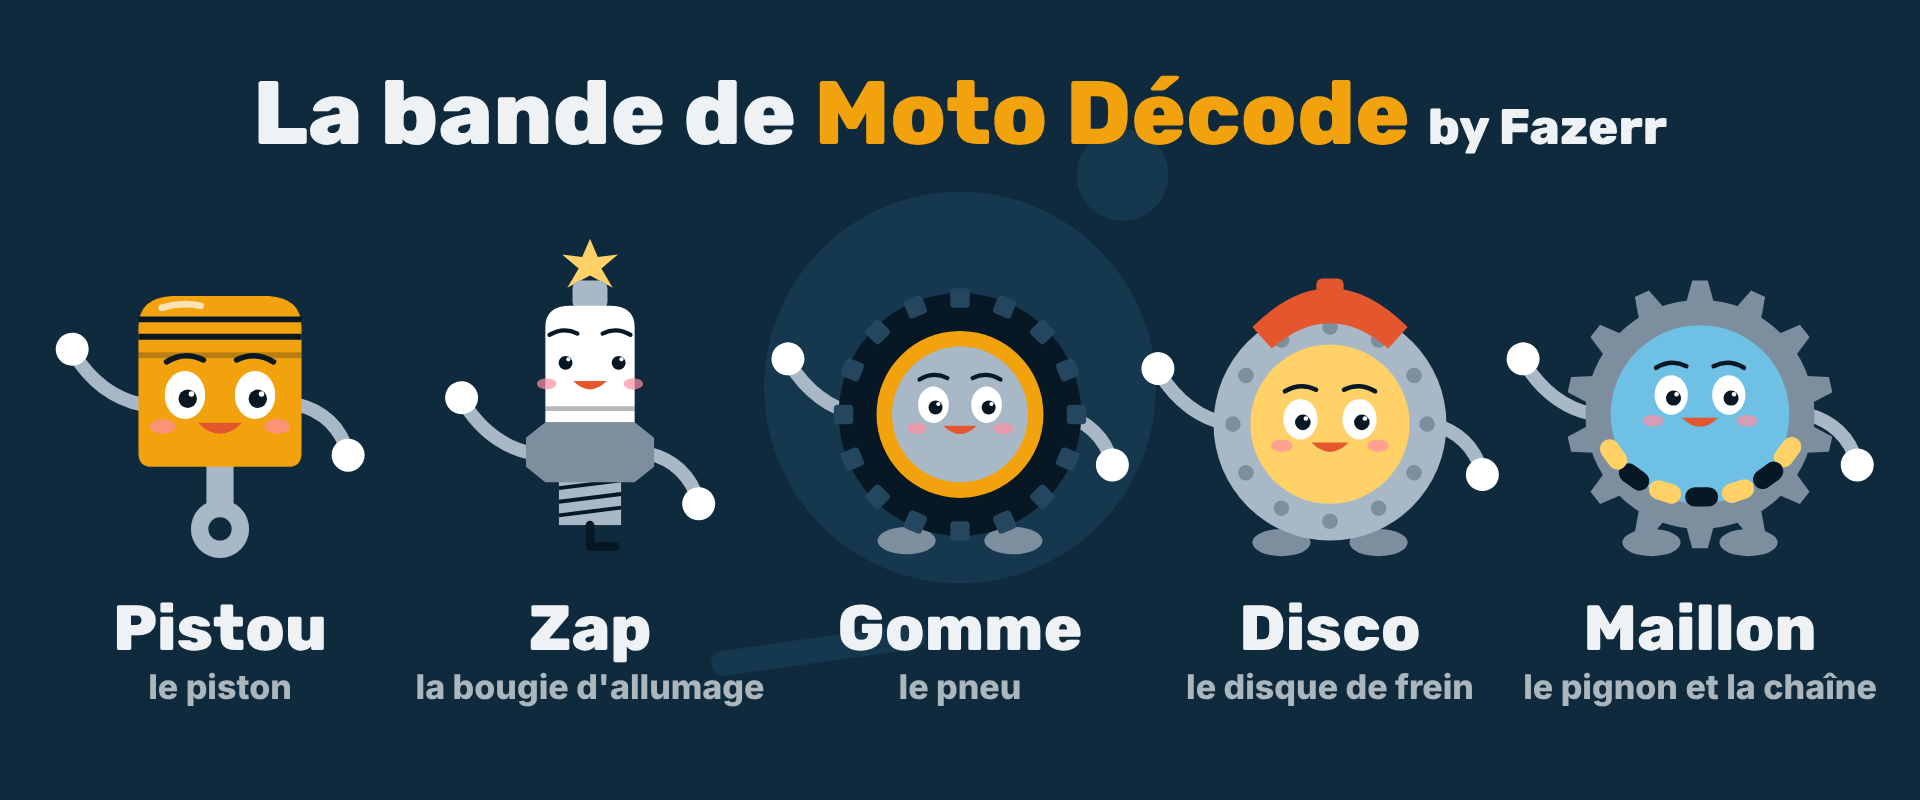
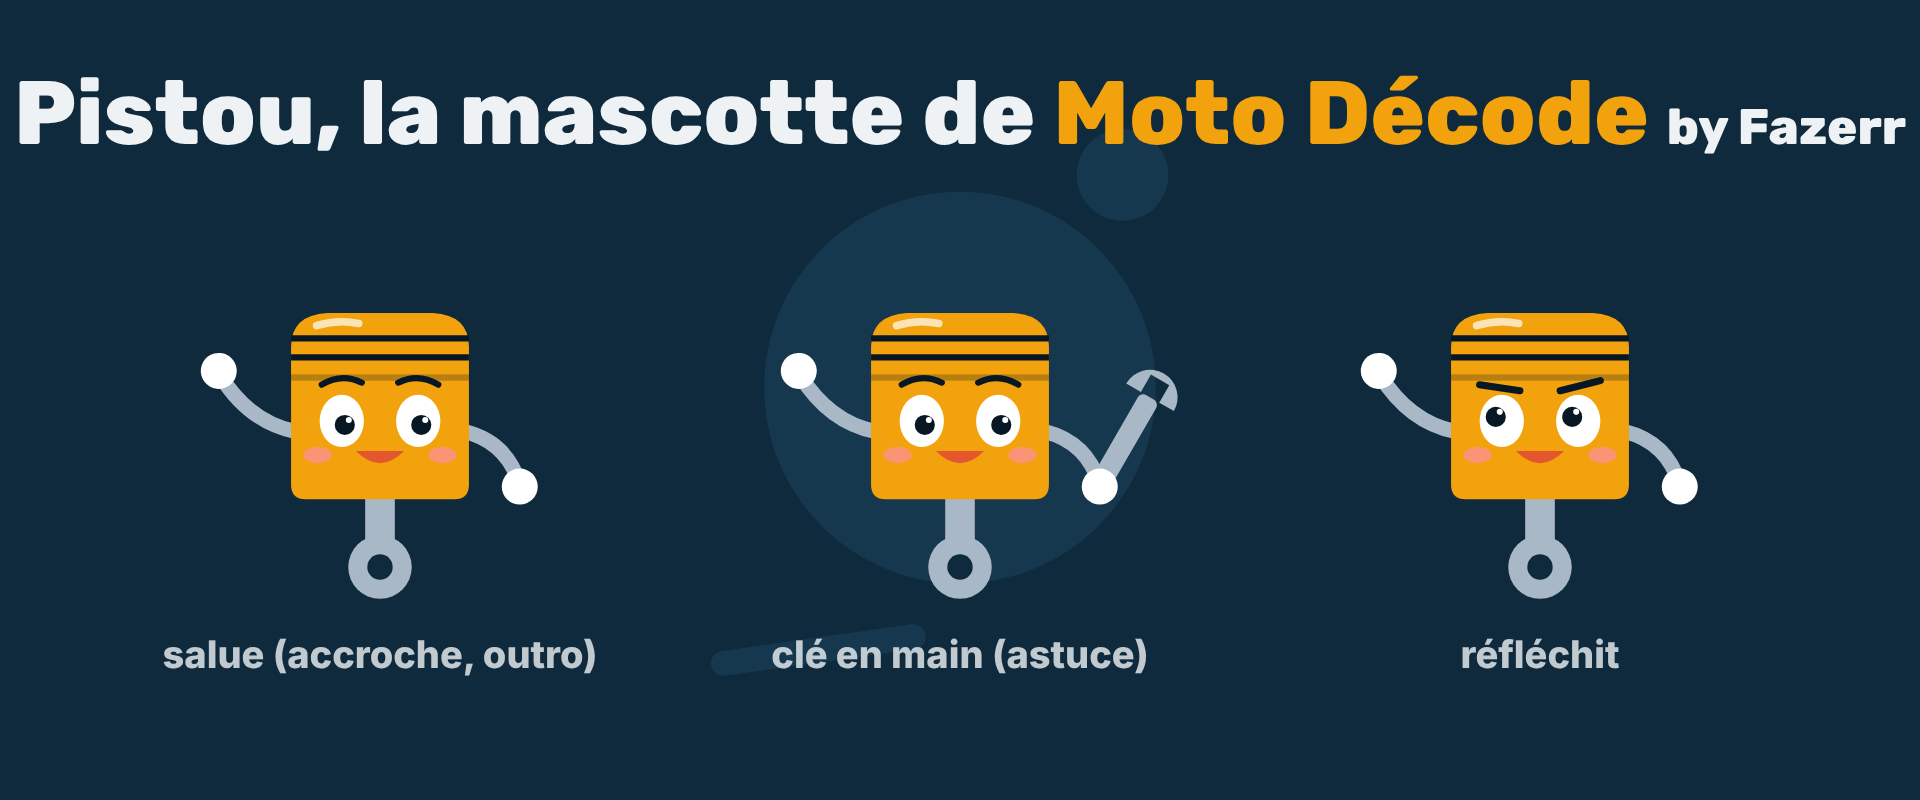
Mascotte unique : on garde seulement Pistou
- Suppression de Zap, Gomme, Disco et Maillon (Mascots.tsx)
- Plus de champ `mascot` dans les scripts ni les props : Pistou partout (scènes, visuel `mascot`, outro)
- Planche brand/mascottes.png = Pistou dans ses 3 poses
- Docs mises à jour (CLAUDE.md, BRAND.md, tuto Chatterbox)

Claude-Session: https://claude.ai/code/session_01HD3WkW98hV9rrzUWDWE5uY

diff --git a/src/components/Mascots.tsx b/src/components/Mascots.tsx
@@ -3,19 +3,12 @@ import { BRAND } from "../brand";
 
 const C = BRAND.colors;
 const INK = C.ink;
-const TIRE = C.ink;
 const LIMB = C.metal; // bras/jambes : acier clair, visible sur le fond pétrole
 
-export type MascotId = "piston" | "bougie" | "pneu" | "frein" | "pignon";
 export type Pose = "wave" | "wrench" | "think";
 
-export const MASCOTS: Record<MascotId, { name: string; part: string }> = {
-  piston: { name: "Pistou", part: "le piston" },
-  bougie: { name: "Zap", part: "la bougie d'allumage" },
-  pneu: { name: "Gomme", part: "le pneu" },
-  frein: { name: "Disco", part: "le disque de frein" },
-  pignon: { name: "Maillon", part: "le pignon et la chaîne" },
-};
+// Pistou le piston : seule mascotte de Moto Décode.
+export const MASCOT = { name: "Pistou", part: "le piston" };
 
 // ---------- pièces communes : visage + bras ----------
 const Face: React.FC<{ cx: number; cy: number; s?: number; pose: Pose; talking: boolean; dark?: boolean }> = ({ cx, cy, s = 1, pose, talking, dark }) => {
@@ -67,15 +60,7 @@ const Arms: React.FC<{ l: [number, number]; r: [number, number]; pose: Pose }> =
   );
 };
 
-const Feet: React.FC<{ y: number; spread?: number }> = ({ y, spread = 40 }) => (
-  <>
-    {[-spread, spread].map((x) => (
-      <ellipse key={x} cx={150 + x} cy={y} rx={30} ry={14} fill={C.grey} />
-    ))}
-  </>
-);
-
-// ---------- les 5 mascottes ----------
+// ---------- Pistou, la mascotte unique ----------
 const Piston: React.FC<P> = ({ pose, talking }) => (
   <>
     {/* bielle = jambe sauteuse */}
@@ -92,109 +77,19 @@ const Piston: React.FC<P> = ({ pose, talking }) => (
   </>
 );
 
-const Bougie: React.FC<P> = ({ pose, talking }) => {
-  const f = useCurrentFrame();
-  const sparkOn = Math.floor(f / 5) % 3 !== 2;
-  return (
-    <>
-      {/* étincelle sur la tête */}
-      {sparkOn && (
-        <path transform="translate(150 6) scale(0.9)" d="M 0 -30 L 9 -9 L 32 -12 L 13 4 L 26 26 L 0 12 L -26 26 L -13 4 L -32 -12 L -9 -9 Z" fill={C.yellow} />
-      )}
-      <rect x={132} y={22} width={36} height={30} rx={8} fill={C.metal} />
-      <Arms l={[90, 200]} r={[210, 200]} pose={pose} />
-      {/* filetage + électrode = jambes */}
-      <rect x={118} y={226} width={64} height={48} fill={C.metal} />
-      {[236, 250, 264].map((y) => <line key={y} x1={118} y1={y} x2={182} y2={y - 8} stroke={INK} strokeWidth={4} />)}
-      <path d="M 150 274 L 150 296 L 176 296" fill="none" stroke={INK} strokeWidth={9} strokeLinecap="round" strokeLinejoin="round" />
-      {/* écrou hexagonal */}
-      <path d="M 84 184 L 104 168 L 196 168 L 216 184 L 216 214 L 196 230 L 104 230 L 84 214 Z" fill={C.grey} />
-      {/* isolant céramique */}
-      <path d="M 104 168 L 104 70 Q 104 48 130 48 L 170 48 Q 196 48 196 70 L 196 168 Z" fill={C.white} />
-      <path d="M 104 154 L 196 154" stroke={INK} strokeWidth={5} opacity={0.3} />
-      <Face cx={150} cy={104} s={0.72} pose={pose} talking={talking} />
-    </>
-  );
-};
-
-const Pneu: React.FC<P> = ({ pose, talking }) => {
-  const f = useCurrentFrame();
-  const rot = Math.sin(f / 10) * 8;
-  return (
-    <>
-      <Arms l={[45, 160]} r={[255, 160]} pose={pose} />
-      <Feet y={290} spread={55} />
-      <g transform={`rotate(${rot} 150 160)`}>
-        <circle cx={150} cy={160} r={125} fill={TIRE} />
-        {Array.from({ length: 16 }, (_, i) => (
-          <rect key={i} x={140} y={30} width={20} height={20} rx={4} fill="#24465E" transform={`rotate(${i * 22.5} 150 160)`} />
-        ))}
-        <circle cx={150} cy={160} r={86} fill={C.orange} />
-      </g>
-      <circle cx={150} cy={160} r={70} fill={C.metal} />
-      <Face cx={150} cy={150} s={0.72} pose={pose} talking={talking} />
-    </>
-  );
-};
-
-const Frein: React.FC<P> = ({ pose, talking }) => (
-  <>
-    <Arms l={[45, 170]} r={[255, 170]} pose={pose} />
-    <Feet y={292} spread={50} />
-    <circle cx={150} cy={170} r={120} fill={C.metal} />
-    {Array.from({ length: 12 }, (_, i) => {
-      const a = (i * 30 * Math.PI) / 180;
-      return <circle key={i} cx={150 + Math.cos(a) * 100} cy={170 + Math.sin(a) * 100} r={8} fill={C.grey} />;
-    })}
-    <circle cx={150} cy={170} r={82} fill={C.yellow} />
-    {/* étrier = béret rouge */}
-    <path d="M 70 70 Q 150 -10 230 70 L 210 92 Q 150 40 90 92 Z" fill={C.red} />
-    <rect x={136} y={20} width={28} height={18} rx={6} fill={C.red} />
-    <Face cx={150} cy={165} s={0.8} pose={pose} talking={talking} />
-  </>
-);
-
-const Pignon: React.FC<P> = ({ pose, talking }) => {
-  const f = useCurrentFrame();
-  return (
-    <>
-      <Arms l={[40, 160]} r={[260, 160]} pose={pose} />
-      <Feet y={292} spread={50} />
-      <g transform={`rotate(${f * 1.2} 150 160)`}>
-        {Array.from({ length: 14 }, (_, i) => (
-          <path key={i} d="M 136 44 L 142 22 L 158 22 L 164 44 Z" fill={C.grey} transform={`rotate(${(i * 360) / 14} 150 160)`} />
-        ))}
-        <circle cx={150} cy={160} r={118} fill={C.grey} />
-      </g>
-      <circle cx={150} cy={160} r={92} fill={C.sky} />
-      {/* chaîne en écharpe */}
-      {Array.from({ length: 7 }, (_, i) => {
-        const a = ((200 + i * 23) * Math.PI) / 180;
-        const x = 150 - Math.cos(a) * 96;
-        const y = 175 - Math.sin(a) * 70;
-        return <rect key={i} x={x - 17} y={y - 10} width={34} height={20} rx={10} fill={i % 2 ? C.ink : C.yellow} transform={`rotate(${(i - 3) * 18} ${x} ${y})`} />;
-      })}
-      <Face cx={150} cy={140} s={0.78} pose={pose} talking={talking} />
-    </>
-  );
-};
-
 type P = { pose: Pose; talking: boolean };
-const BODIES: Record<MascotId, React.FC<P>> = { piston: Piston, bougie: Bougie, pneu: Pneu, frein: Frein, pignon: Pignon };
 
-export const PartMascot: React.FC<{ id?: MascotId; size?: number; pose?: Pose; talking?: boolean; bob?: boolean }> = ({
-  id = "piston",
+export const Pistou: React.FC<{ size?: number; pose?: Pose; talking?: boolean; bob?: boolean }> = ({
   size = 300,
   pose = "wave",
   talking = true,
   bob = true,
 }) => {
   const f = useCurrentFrame();
-  const Body = BODIES[id] ?? Piston;
   const dy = bob ? Math.sin(f / 6) * 8 : 0;
   return (
     <svg width={size} height={size * (330 / 320)} viewBox="-20 -30 340 330" style={{ transform: `translateY(${dy}px)`, overflow: "visible" }}>
-      <Body pose={pose} talking={talking} />
+      <Piston pose={pose} talking={talking} />
     </svg>
   );
 };

diff --git a/src/MascotSheet.tsx b/src/MascotSheet.tsx
@@ -2,35 +2,36 @@ import { AbsoluteFill } from "remotion";
 import { BRAND } from "./brand";
 import { BODY_FONT, TITLE_FONT } from "./fonts";
 import { Background } from "./components/Background";
-import { MASCOTS, PartMascot, type MascotId } from "./components/Mascots";
+import { MASCOT, Pistou, type Pose } from "./components/Mascots";
 
-// Planche de présentation des 5 mascottes (brand/mascottes.png).
-export const MascotSheet: React.FC = () => {
-  const ids = Object.keys(MASCOTS) as MascotId[];
-  return (
-    <AbsoluteFill>
-      <Background />
-      <div style={{ position: "absolute", top: 60, width: "100%", textAlign: "center", fontFamily: TITLE_FONT,
-              fontWeight: 800, fontSize: 90, color: BRAND.colors.text }}>
-        La bande de <span style={{ color: BRAND.colors.orange }}>Moto Décode</span> <span style={{ fontSize: 50, color: BRAND.colors.text }}>by {BRAND.author}</span>
-      </div>
-      <div style={{ position: "absolute", top: 220, left: 40, right: 40, display: "flex", justifyContent: "space-between" }}>
-        {ids.map((id) => (
-          <div key={id} style={{ width: 360, display: "flex", flexDirection: "column", alignItems: "center" }}>
-            <PartMascot id={id} size={330} pose="wave" talking={false} bob={false} />
-            <div style={{ fontFamily: TITLE_FONT,
-              fontWeight: 800, fontSize: 64, color: BRAND.colors.text, marginTop: 30 }}>{MASCOTS[id].name}</div>
-            <div style={{ fontFamily: BODY_FONT, fontWeight: 800, fontSize: 34, color: BRAND.colors.text, opacity: 0.7 }}>{MASCOTS[id].part}</div>
-          </div>
-        ))}
-      </div>
-    </AbsoluteFill>
-  );
-};
+const POSES: { pose: Pose; label: string }[] = [
+  { pose: "wave", label: "salue (accroche, outro)" },
+  { pose: "wrench", label: "clé en main (astuce)" },
+  { pose: "think", label: "réfléchit" },
+];
 
-// Une mascotte seule sur fond transparent (utilisée par l'outro HyperFrames).
-export const MascotStill: React.FC<{ id: MascotId }> = ({ id }) => (
+// Planche de présentation de Pistou (brand/mascottes.png).
+export const MascotSheet: React.FC = () => (
+  <AbsoluteFill>
+    <Background />
+    <div style={{ position: "absolute", top: 60, width: "100%", textAlign: "center", fontFamily: TITLE_FONT, fontWeight: 800, fontSize: 90, color: BRAND.colors.text }}>
+      {MASCOT.name}, la mascotte de <span style={{ color: BRAND.colors.orange }}>Moto Décode</span>{" "}
+      <span style={{ fontSize: 50 }}>by {BRAND.author}</span>
+    </div>
+    <div style={{ position: "absolute", top: 230, left: 160, right: 160, display: "flex", justifyContent: "space-between" }}>
+      {POSES.map(({ pose, label }) => (
+        <div key={pose} style={{ width: 440, display: "flex", flexDirection: "column", alignItems: "center" }}>
+          <Pistou size={360} pose={pose} talking={false} bob={false} />
+          <div style={{ fontFamily: BODY_FONT, fontWeight: 800, fontSize: 38, color: BRAND.colors.text, opacity: 0.8, marginTop: 30 }}>{label}</div>
+        </div>
+      ))}
+    </div>
+  </AbsoluteFill>
+);
+
+// Pistou seul sur fond transparent (utilisé par l'outro HyperFrames).
+export const MascotStill: React.FC = () => (
   <AbsoluteFill style={{ alignItems: "center", justifyContent: "center" }}>
-    <PartMascot id={id} size={520} pose="wave" talking={false} bob={false} />
+    <Pistou size={520} pose="wave" talking={false} bob={false} />
   </AbsoluteFill>
 );

diff --git a/src/scenes/SceneView.tsx b/src/scenes/SceneView.tsx
@@ -4,7 +4,7 @@ import { TITLE_FONT } from "../fonts";
 import type { Scene } from "../types";
 import { Visual } from "../visuals";
 import { Captions } from "../components/Captions";
-import { PartMascot, type MascotId } from "../components/Mascots";
+import { Pistou } from "../components/Mascots";
 import { HookView } from "./HookView";
 import { Sfx } from "../components/Sfx";
 import { CLUTCH_CYCLE } from "../visuals/Clutch";
@@ -12,7 +12,7 @@ import { CHAIN_FRONT_TURN } from "../visuals/Chain";
 
 const C = BRAND.colors;
 
-export const SceneView: React.FC<{ scene: Scene; speechFrames: number; mascot?: MascotId }> = ({ scene, speechFrames, mascot }) => {
+export const SceneView: React.FC<{ scene: Scene; speechFrames: number }> = ({ scene, speechFrames }) => {
   const f = useCurrentFrame();
   const { fps } = useVideoConfig();
   const enter = spring({ frame: f, fps, config: { damping: 14, stiffness: 140 } });
@@ -73,7 +73,7 @@ export const SceneView: React.FC<{ scene: Scene; speechFrames: number; mascot?: 
       </div>
       {(isHook || isTip) && (
         <div style={{ position: "absolute", left: isTip ? 760 : 20, top: isTip ? 1130 : 1080, transform: `scale(${enter})` }}>
-          <PartMascot id={mascot} size={300} pose={isTip ? "wrench" : "wave"} />
+          <Pistou size={300} pose={isTip ? "wrench" : "wave"} />
         </div>
       )}
       <Captions text={scene.narration} speechFrames={speechFrames} />

diff --git a/src/types.ts b/src/types.ts
@@ -1,5 +1,3 @@
-import type { MascotId } from "./components/Mascots";
-
 export type VisualSpec =
   | { kind: "engine4t"; stroke?: "admission" | "compression" | "combustion" | "echappement" | "cycle"; speed?: number; highlight?: "crank" | "valves" | "spark" }
   | { kind: "bike"; focus?: "engine" | "spark" | "brake" | "tire" | "chain" | "clutch" | "none"; boom?: boolean; label?: string }
@@ -8,7 +6,7 @@ export type VisualSpec =
   | { kind: "chain"; mode?: "parts" | "ratio" | "drive" | "slack"; labels?: boolean }
   | { kind: "chainlink" }
   | { kind: "oilcheck" }
-  | { kind: "mascot"; id?: MascotId; pose?: "wave" | "wrench" | "think" }
+  | { kind: "mascot"; pose?: "wave" | "wrench" | "think" }
   | { kind: "logo" }
   | { kind: string; [key: string]: unknown };
 
@@ -28,8 +26,6 @@ export type Scene = {
 export type VideoProps = {
   slug: string;
   title: string;
-  // Mascotte de l'épisode (voir src/components/Mascots.tsx). Défaut : "piston".
-  mascot?: MascotId;
   scenes: Scene[];
   outro?: { narration: string; next?: string };
 };

diff --git a/src/MotoVideo.tsx b/src/MotoVideo.tsx
@@ -6,7 +6,7 @@ import { Header } from "./components/Header";
 import { SceneView } from "./scenes/SceneView";
 import { sceneFrames } from "./timing";
 
-export const MotoVideo: React.FC<VideoProps> = ({ title, scenes, mascot }) => (
+export const MotoVideo: React.FC<VideoProps> = ({ title, scenes }) => (
   <AbsoluteFill>
     <Background />
     <Series>
@@ -16,7 +16,7 @@ export const MotoVideo: React.FC<VideoProps> = ({ title, scenes, mascot }) => (
         return (
           <Series.Sequence key={i} durationInFrames={frames}>
             {sc.audio && <Audio src={staticFile(sc.audio)} />}
-            <SceneView scene={sc} speechFrames={speech} mascot={mascot} />
+            <SceneView scene={sc} speechFrames={speech} />
           </Series.Sequence>
         );
       })}

diff --git a/src/visuals/index.tsx b/src/visuals/index.tsx
@@ -4,7 +4,7 @@ import { OilCheck } from "./OilCheck";
 import { MotoBike } from "./MotoBike";
 import { Clutch, ClutchLever } from "./Clutch";
 import { Chain, ChainLink } from "./Chain";
-import { PartMascot } from "../components/Mascots";
+import { Pistou } from "../components/Mascots";
 import { LogoMark } from "../components/Logo";
 
 // Registre des visuels. Pour un nouveau sujet, ajoute un composant SVG ici
@@ -28,7 +28,7 @@ export const Visual: React.FC<{ spec?: VisualSpec }> = ({ spec }) => {
     case "oilcheck":
       return <OilCheck />;
     case "mascot":
-      return <PartMascot id={s.id} size={560} pose={s.pose} />;
+      return <Pistou size={560} pose={s.pose} />;
     case "logo":
       return <LogoMark size={600} />;
     default:

diff --git a/src/Root.tsx b/src/Root.tsx
@@ -24,6 +24,6 @@ export const RemotionRoot: React.FC = () => (
     calculateMetadata={calculateMetadata}
   />
   <Composition id="MascotSheet" component={MascotSheet} width={1920} height={800} fps={FPS} durationInFrames={90} />
-  <Composition id="MascotStill" component={MascotStill} width={600} height={620} fps={FPS} durationInFrames={1} defaultProps={{ id: "piston" as const }} />
+  <Composition id="MascotStill" component={MascotStill} width={600} height={620} fps={FPS} durationInFrames={1} />
   </>
 );

diff --git a/CLAUDE.md b/CLAUDE.md
@@ -7,9 +7,7 @@ Quand l'utilisateur donne un sujet (« fais une vidéo sur la chaîne »), fais 
 Crée `content/<slug>/script.json` (slug en kebab-case sans accents). Format : voir `content/moteur-4-temps/script.json` et `src/types.ts`.
 
 - `title` : `"Épisode N · <Sujet>"` (regarde les épisodes existants pour N).
-- `mascot` : la mascotte de l'épisode, celle dont la pièce est la plus proche du sujet (`src/components/Mascots.tsx`) :
-  `piston` (Pistou : moteur, huile, embrayage…), `bougie` (Zap : allumage, électricité, batterie), `pneu` (Gomme : pneus, roues, suspension),
-  `frein` (Disco : freinage, ABS), `pignon` (Maillon : transmission, chaîne, boîte). Défaut : `piston`.
+- Mascotte : **Pistou le piston est la seule mascotte**, dans tous les épisodes (`src/components/Mascots.tsx`). Pas de champ `mascot` dans le script.
 - `scenes` : 6 à 8 scènes, dans cet ordre :
   1. `hook` (1) : l'accroche, les 3 premières secondes décident si on regarde. Elle a :
      - `heading` : **une phrase choc** de 3 à 6 mots, un chiffre ou une surprise vraie, mots clés entre `*` (surlignés en ambre).
@@ -32,7 +30,7 @@ Crée `content/<slug>/script.json` (slug en kebab-case sans accents). Format : v
 
 ## 2. Les visuels
 Chaque scène a un `visual` dont `kind` est déclaré dans `src/visuals/index.tsx`.
-Existants : `bike` (moto de profil, `focus`, `label`, `boom`), `engine4t` (coupe moteur animée : `stroke`, `speed`, `labels`, `highlight`), `oilcheck`, `clutch` (embrayage en coupe : `state` engaged | disengaged | slip | cycle, `labels`), `clutchlever` (garde du levier), `chain` (transmission secondaire : `mode` parts | ratio | drive | slack), `chainlink` (zoom sur les maillons), `mascot` (`id`, `pose`), `logo`.
+Existants : `bike` (moto de profil, `focus`, `label`, `boom`), `engine4t` (coupe moteur animée : `stroke`, `speed`, `labels`, `highlight`), `oilcheck`, `clutch` (embrayage en coupe : `state` engaged | disengaged | slip | cycle, `labels`), `clutchlever` (garde du levier), `chain` (transmission secondaire : `mode` parts | ratio | drive | slack), `chainlink` (zoom sur les maillons), `mascot` (Pistou, `pose` wave | wrench | think), `logo`.
 Si le sujet en demande un nouveau (chaîne, frein, bougie, embrayage…), **crée-le** dans `src/visuals/<Nom>.tsx` :
 - SVG React, `viewBox="0 0 600 900"`, animé avec `useCurrentFrame()` (jamais de CSS animation ni `Math.random`).
 - Style **flat design** (palette « Huile & acier », voir `brand/BRAND.md`) : aplats de `BRAND.colors`, **pas de contour** ni de dégradé,
@@ -52,8 +50,8 @@ Livre `out/<slug>.mp4`. Pas de publication automatique.
 ## Règles
 - Pas d'intro : la vidéo démarre directement sur l'accroche (le logo d'intro HyperFrames n'est ajouté qu'avec `--intro`, à éviter).
 - Intro/outro : `hyperframes/templates/*.html` (HyperFrames). Variables `{{TITLE}}`, `{{NEXT}}`, `{{DUR}}`, `{{VO_DUR}}` remplies par `pipeline/make.mjs`.
-  L'outro affiche `mascot.png`, la mascotte de l'épisode rendue par la composition Remotion `MascotStill`.
-- Planche des mascottes : `npx remotion still src/index.ts MascotSheet brand/mascottes.png`.
+  L'outro affiche `mascot.png`, Pistou rendu par la composition Remotion `MascotStill`.
+- Planche de Pistou : `npx remotion still src/index.ts MascotSheet brand/mascottes.png`.
 - Les couleurs et polices ne changent que dans `src/brand.ts` + `hyperframes/templates/_shared.css` (garde-les synchronisés).
 - Bruitages : composant `<Sfx name="…" at={image} />` (`src/components/Sfx.tsx`), sons dans `public/sfx/` (régénérer : `python pipeline/make_sfx.py`).
   Déjà placés automatiquement : boom + pop dans l'accroche, whoosh à chaque scène, ding dans l'astuce, zap sur la combustion, levelup sur `oilcheck`.

diff --git a/brand/BRAND.md b/brand/BRAND.md
@@ -2,15 +2,8 @@
 
 - **Nom** : MOTO DÉCODE **by Fazerr** (nom de la chaîne TikTok) · slogan : « Ta moto, expliquée en 1 minute »
 - **Logo** : engrenage ambre avec un piston au centre (`logo-mark.svg`) + mot-symbole « MOTO » blanc froid / « DÉCODE » ambre.
-- **Mascottes** (voir `mascottes.png`) : une bande de 5 pièces de moto. Chaque épisode prend celle qui colle au sujet (`"mascot"` dans `script.json`).
-  Elle salue dans l'accroche, tient une clé dans l'astuce et revient dans l'outro.
-  | Mascotte | Pièce | Sujets |
-  |---|---|---|
-  | **Pistou** (mascotte principale) | piston | moteur, huile, embrayage, refroidissement |
-  | **Zap** | bougie d'allumage | allumage, électricité, batterie, éclairage |
-  | **Gomme** | pneu | pneus, jantes, suspension |
-  | **Disco** | disque de frein | freinage, ABS, liquide de frein |
-  | **Maillon** | pignon + chaîne | transmission, chaîne, boîte de vitesses |
+- **Mascotte** (voir `mascottes.png`) : **Pistou le piston**, seule mascotte de la chaîne, dans tous les épisodes.
+  Il salue dans l'accroche, tient une clé dans l'astuce et revient dans l'outro.
 - **Couleurs** : bleu pétrole `#0F2A3D` (fond) · formes de fond `#16384F` · ambre huile `#F2A20C` (principale, mots clés) · ambre clair `#FFD166` (lumières, étincelles) · acier `#A9B8C6` / `#7D8E9E` (métal) · bleu moteur `#3E7CA6` (carénage, titres de scène) · rouge chaud `#E4572E` (combustion, alerte) · blanc froid `#EEF2F4` (texte) · bleu très sombre `#071824` (pneus, texte sur ambre).
 - **Polices** : Rubik ExtraBold (titres), Inter ExtraBold (sous-titres, textes). Licence OFL.
 - **Style** : flat design. Aplats de couleur, aucun dégradé, aucun contour épais, formes géométriques arrondies, ombre = une teinte plus foncée sous l'objet (jamais noire, jamais floue). Fond pétrole avec 2 ou 3 grands cercles `#16384F`.

diff --git a/docs/TUTO-CHATTERBOX.md b/docs/TUTO-CHATTERBOX.md
@@ -181,7 +181,7 @@ setx MOTO_VOICE clone
 
 Ouvre Claude Code dans le dossier `moto_decode` et demande simplement :
 « Fais une vidéo sur les plaquettes de frein, avec ma voix clonée ».
-Claude écrit le script, choisit la mascotte (Pistou, Zap, Gomme, Disco ou Maillon), dessine ce qui manque et lance le rendu.
+Claude écrit le script, dessine ce qui manque et lance le rendu.
 
 ---
 
